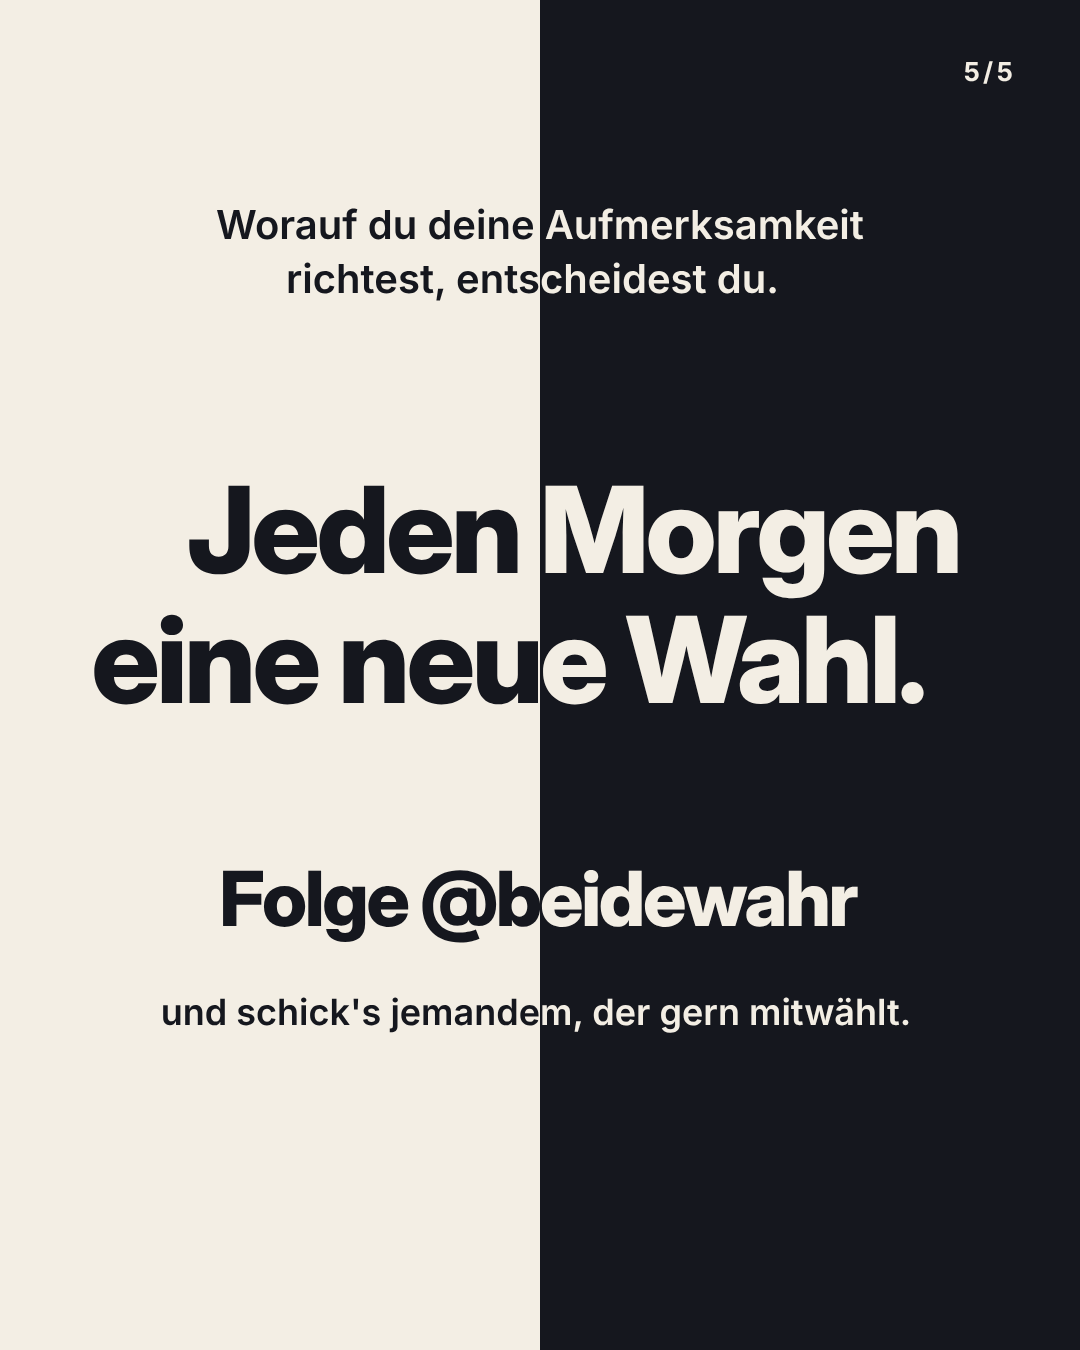
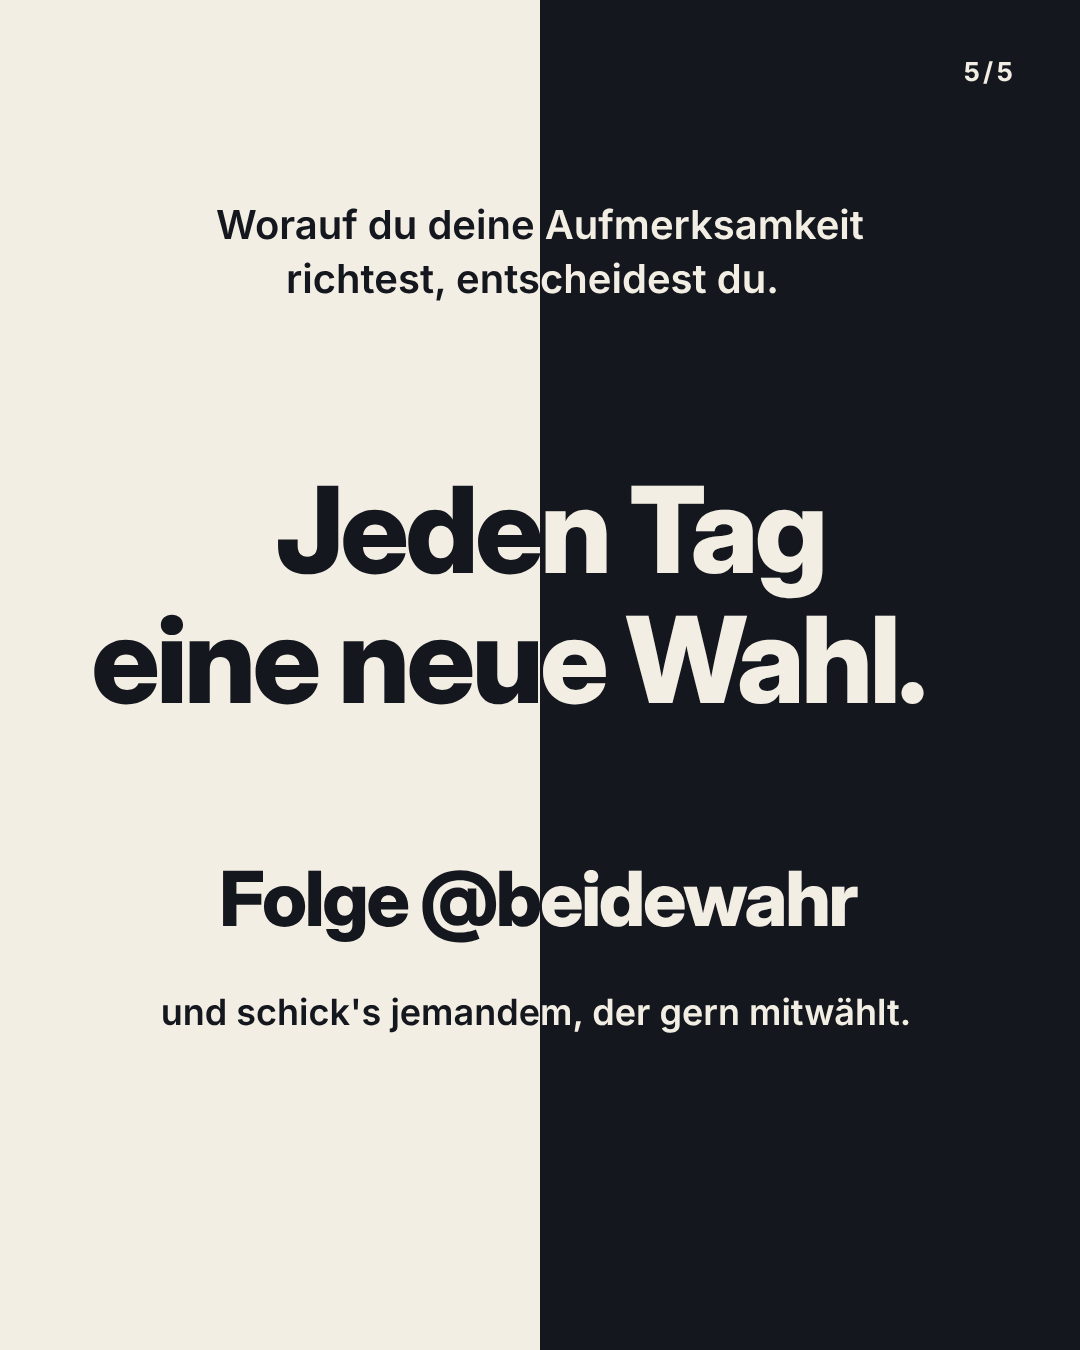
Profil: «Jeden Tag» statt «Jeden Morgen» (Lauf neu abends)
Claude-Session: https://claude.ai/code/session_01MARQZns3LYWZF5Zbr4TXaV

Changed region(s): [[0.1528, 0.3422, 0.8861, 0.4356]]

diff --git a/pipeline/profil.py b/pipeline/profil.py
@@ -65,7 +65,7 @@ def slides(dm_png, h):
     S.append(f"""<div class="split"><div style="background:{LIGHT}"></div><div style="background:{DARK}"></div></div>
       <div class="ml sm" style="top:{off + 200}px;font-size:40px">Worauf du deine Aufmerksamkeit</div>
       <div class="ml sm" style="top:{off + 254}px;font-size:40px">richtest, entscheidest du.</div>
-      <div class="ml big" style="top:{off + 470}px;font-size:120px">Jeden Morgen</div>
+      <div class="ml big" style="top:{off + 470}px;font-size:120px">Jeden Tag</div>
       <div class="ml big" style="top:{off + 600}px;font-size:120px">eine neue Wahl.</div>
       <div class="ml big" style="top:{off + 860}px;font-size:76px">Folge @beidewahr</div>
       <div class="ml sm" style="top:{off + 990}px;font-size:36px">und schick's jemandem, der gern mitwählt.</div>{nr(5, LIGHT)}""")
